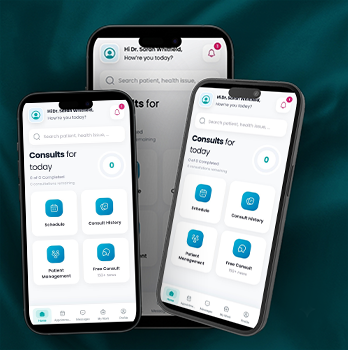
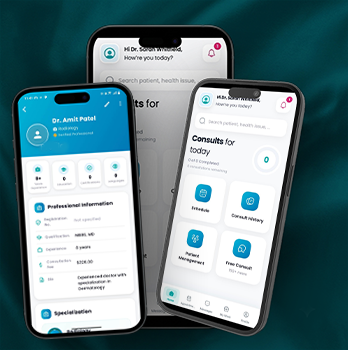
chnage for website

Changed region(s): [[0.0287, 0.2286, 0.431, 0.9714]]

diff --git a/login.html b/login.html
@@ -155,57 +155,161 @@
         <!--Page Header End-->
 
         <!--Start Login One-->
-        <section class="login-one">
-            <div class="container">
-                <div class="login-one__form">
-                    <div class="inner-title text-center">
-                        <h2>Login Here</h2>
-                    </div>
-                    <form id="login-one__form" name="Login-one_form" action="#" method="post">
-                        <div class="row">
-                            <div class="col-xl-12">
-                                <div class="form-group">
-                                    <div class="input-box">
-                                        <input type="email" name="form_email" id="formEmail" placeholder="Email..."
-                                            required="" value="">
-                                    </div>
-                                </div>
-                            </div>
-                            <div class="col-xl-12">
-                                <div class="form-group">
-                                    <div class="input-box">
-                                        <input type="text" name="form_password" id="formPassword"
-                                            placeholder="Password..." required="" value="">
-                                    </div>
-                                </div>
-                            </div>
-                            <div class="col-xl-12">
-                                <div class="form-group">
-                                    <button class="thm-btn" type="submit" data-loading-text="Please wait...">Login
-                                        Here<span class="icon-right-arrow"></span></button>
-                                </div>
-                            </div>
-                            <div class="remember-forget">
-                                <div class="checked-box1">
-                                    <input type="checkbox" name="saveMyInfo" id="saveinfo" checked="">
-                                    <label for="saveinfo">
-                                        <span></span>
-                                        Remember me
-                                    </label>
-                                </div>
-                                <div class="forget">
-                                    <a href="#">Forget password?</a>
-                                </div>
-                            </div>
+        <section class="login-one" style="padding: 100px 0; background: linear-gradient(135deg, #f3fbfc 0%, #eef7ff 100%);">
+    <div class="container">
+        <div class="login-one__form">
 
-                            <div class="create-account text-center">
-                                <p>Not registered yet? <a href="sign-up.html">Create an Account</a></p>
+            <div class="inner-title " style="padding-bottom: 20px; text-align: center;">
+                <h2 style="color: #0f4c81; font-size: 34px; font-weight: 700; margin-bottom: 10px;">
+                    Welcome Back
+                </h2>
+
+                <p style="color: #64748b; font-size: 15px; margin: 0;">
+                    Login to access your healthcare account
+                </p>
+            </div>
+
+            <form id="login-one__form" name="Login-one_form" action="#" method="post">
+
+                <div class="row">
+
+                    <div class="col-xl-12">
+                        <div class="form-group" style="margin-bottom: 22px;">
+                            <div class="input-box" style="position: relative;">
+                                <input type="email"
+                                    name="form_email"
+                                    id="formEmail"
+                                    placeholder="Email Address"
+                                    required
+                                    value=""
+                                    style="
+                                        width: 100%;
+                                        height: 58px;
+                                        padding: 0 20px;
+                                        border: 1px solid #dbe7ef;
+                                        border-radius: 12px;
+                                        background: #f8fbfd;
+                                        color: #1f2937;
+                                        font-size: 15px;
+                                        outline: none;
+                                    ">
                             </div>
                         </div>
-                    </form>
+                    </div>
+
+                    <div class="col-xl-12">
+                        <div class="form-group" style="margin-bottom: 18px;">
+                            <div class="input-box" style="position: relative;">
+                                <input type="password"
+                                    name="form_password"
+                                    id="formPassword"
+                                    placeholder="Password"
+                                    required
+                                    value=""
+                                    style="
+                                        width: 100%;
+                                        height: 58px;
+                                        padding: 0 20px;
+                                        border: 1px solid #dbe7ef;
+                                        border-radius: 12px;
+                                        background: #f8fbfd;
+                                        color: #1f2937;
+                                        font-size: 15px;
+                                        outline: none;
+                                    ">
+                            </div>
+                        </div>
+                    </div>
+
+                    <div class="col-xl-12">
+                        <div class="remember-forget"
+                            style="
+                                display: flex;
+                                align-items: center;
+                                justify-content: space-between;
+                                margin-bottom: 28px;
+                                gap: 15px;
+                            ">
+
+                            <div class="checked-box1">
+                                <input type="checkbox"
+                                    name="saveMyInfo"
+                                    id="saveinfo"
+                                    checked>
+
+                                <label for="saveinfo" style="color: #64748b; font-size: 14px;">
+                                    <span></span>
+                                    Remember me
+                                </label>
+                            </div>
+
+                            <!-- <div class="forget">
+                                <a href="#"
+                                    style="
+                                        color: #00a6a6;
+                                        font-size: 14px;
+                                        font-weight: 600;
+                                        text-decoration: none;
+                                    ">
+                                    Forgot Password?
+                                </a>
+                            </div> -->
+
+                        </div>
+                    </div>
+
+                    <div class="col-xl-12">
+                        <div class="form-group" style="margin-bottom: 25px;">
+                            <button class="thm-btn"
+                                type="submit"
+                                data-loading-text="Please wait..."
+                                style="
+                                    width: 100%;
+                                    height: 58px;
+                                    border: 0;
+                                    border-radius: 12px;
+                                    background: linear-gradient(135deg, #0f4c81, #00a6a6);
+                                    color: #ffffff;
+                                    font-size: 16px;
+                                    font-weight: 600;
+                                    cursor: pointer;
+                                    box-shadow: 0 10px 25px rgba(15, 76, 129, 0.20);
+                                ">
+                                Login Here
+                                <span class="icon-right-arrow"></span>
+                            </button>
+                        </div>
+                    </div>
+
+                    <div class="col-xl-12">
+                        <div class="create-account text-center"
+                            style="
+                                padding-top: 5px;
+                                border-top: 1px solid #edf2f7;
+                            ">
+                            <p style="
+                                margin: 22px 0 0;
+                                color: #64748b;
+                                font-size: 14px;
+                            ">
+                                Not registered yet?
+                                <a href="sign-up.html"
+                                    style="
+                                        color: #0f4c81;
+                                        font-weight: 700;
+                                        text-decoration: none;
+                                    ">
+                                    Create an Account
+                                </a>
+                            </p>
+                        </div>
+                    </div>
+
                 </div>
-            </div>
-        </section>
+            </form>
+        </div>
+    </div>
+</section>
         <!--End Login One-->
 
 

diff --git a/index.html b/index.html
@@ -134,7 +134,7 @@
                         <div class="banner-one__left sec-title-animation animation-style2">
                             <p class="banner-one__sub-title">Health Care</p>
                             <h2 class="banner-one__title title-animation">
-                                Smart Healthcare Management, <span> All in One Place</span>
+                                Smart Healthcare Management, <span style="color: red;"> All in One Place</span>
                             </h2>
                             <p class="banner-one__text">Manage doctors, patients, appointments, and healthcare
                                 <br> services effortlessly from one powerful dashboard.
@@ -875,7 +875,7 @@
                             <p class="services-one__text">Explore our latest healthcare solutions designed to improve
                                 accessibility, efficiency, and patient care.</p>
                             <div class="services-one__btn-box">
-                                <a href="vitality-health-solutions.html" class="thm-btn">Read More <span
+                                <a href="services.html " class="thm-btn">Read More <span
                                         class="icon-plus"></span>
                                 </a>
                             </div>
@@ -1371,6 +1371,8 @@
                         </div>
                     </div>
                     <!--blog One Single End-->
+
+
                     <!--blog One Single Start-->
                     <div class="col-xl-4 col-lg-4 wow fadeInUp" data-wow-delay="200ms">
                         <div class="blog-one__single">
@@ -1416,6 +1418,8 @@
                         </div>
                     </div>
                     <!--blog One Single End-->
+
+
                     <!--blog One Single Start-->
                     <div class="col-xl-4 col-lg-4 wow fadeInRight" data-wow-delay="300ms">
                         <div class="blog-one__single">
@@ -1461,6 +1465,8 @@
                         </div>
                     </div>
                     <!--blog One Single End-->
+
+
                 </div>
             </div>
         </section>

diff --git a/about.html b/about.html
@@ -234,7 +234,7 @@
                                     <h3 class="odometer" data-count="600">00</h3>
                                     <span>+</span>
                                 </div>
-                                <p class="counter-one__count-text">Complte<br> Project</p>
+                                <p class="counter-one__count-text">Hospital<br> </p>
                             </div>
                         </li>
                         <li>
@@ -243,7 +243,7 @@
                                     <h3 class="odometer" data-count="200">00</h3>
                                     <span>+</span>
                                 </div>
-                                <p class="counter-one__count-text">Team<br> Member</p>
+                                <p class="counter-one__count-text">Doctor<br> </p>
                             </div>
                         </li>
                         <li>
@@ -252,7 +252,7 @@
                                     <h3 class="odometer" data-count="500">00</h3>
                                     <span>+</span>
                                 </div>
-                                <p class="counter-one__count-text">Clients<br> Reviews</p>
+                                <p class="counter-one__count-text">Patient <br> </p>
                             </div>
                         </li>
                         <li>
@@ -261,7 +261,7 @@
                                     <h3 class="odometer" data-count="50">00</h3>
                                     <span>+</span>
                                 </div>
-                                <p class="counter-one__count-text">Winning<br> award</p>
+                                <p class="counter-one__count-text">Ambulance <br> </p>
                             </div>
                         </li>
                     </ul>

diff --git a/contact.html b/contact.html
@@ -153,7 +153,7 @@
                 <div class="row">
                     <div class="col-xl-7 col-lg-7">
                         <div class="contact-page__left">
-                            <h3 class="contact-page__title">Appiontment Now</h3>
+                            <h3 class="contact-page__title">Contact Us</h3>
                             <form class="contact-form-validated contact-page__form" action="https://html.themehealer.com/careon/assets/inc/sendemail.php"
                                 method="post" novalidate="novalidate">
                                 <div class="row">
@@ -182,8 +182,8 @@
                                             <textarea name="message" placeholder="Message here.."></textarea>
                                         </div>
                                         <div class="contact-page__btn-box">
-                                            <button type="submit" class="thm-btn">Appointment Now <span
-                                                    class="icon-plus"></span></button>
+                                            <button type="submit" class="thm-btn">Submit </button>
+                                            <!-- <span class="icon-plus"></span> -->
                                         </div>
                                     </div>
                                 </div>
@@ -226,7 +226,7 @@
                                     </div>
                                     <div class="content">
                                         <h3>Location</h3>
-                                        <p>Mirour 10 Dhaka</p>
+                                        <p>Santoshpur, Kolkata</p>
                                     </div>
                                 </li>
                             </ul>

diff --git a/assets/css/style.css b/assets/css/style.css
@@ -21,7 +21,7 @@
   --careon-font: "Roboto", serif;
   --careon-gray: #4A5B80;
   --careon-gray-rgb: 74, 91, 128;
-  --careon-base: #f9020d;
+  --careon-base: #006D77;
   /* 006D77 */
   --careon-base-rgb: 0, 109, 119;
   --careon-primary: #BEE1E6;
@@ -2392,9 +2392,9 @@ ul {
 }
 
 
-.main-menu__thm-btn .thm-btn{
+/* .main-menu__thm-btn .thm-btn{
   background-color: #f9020d;
-}
+} */
 .main-menu__thm-btn .thm-btn::after{
   background-color: #006D77;
 }

diff --git a/assets/css/module-css/why-choose.css b/assets/css/module-css/why-choose.css
@@ -440,7 +440,10 @@
 }
 
 
-
+/* vertitect */
+.why-choose-one__call-icon span{
+    color: #f9020d;
+}
 
 
 
